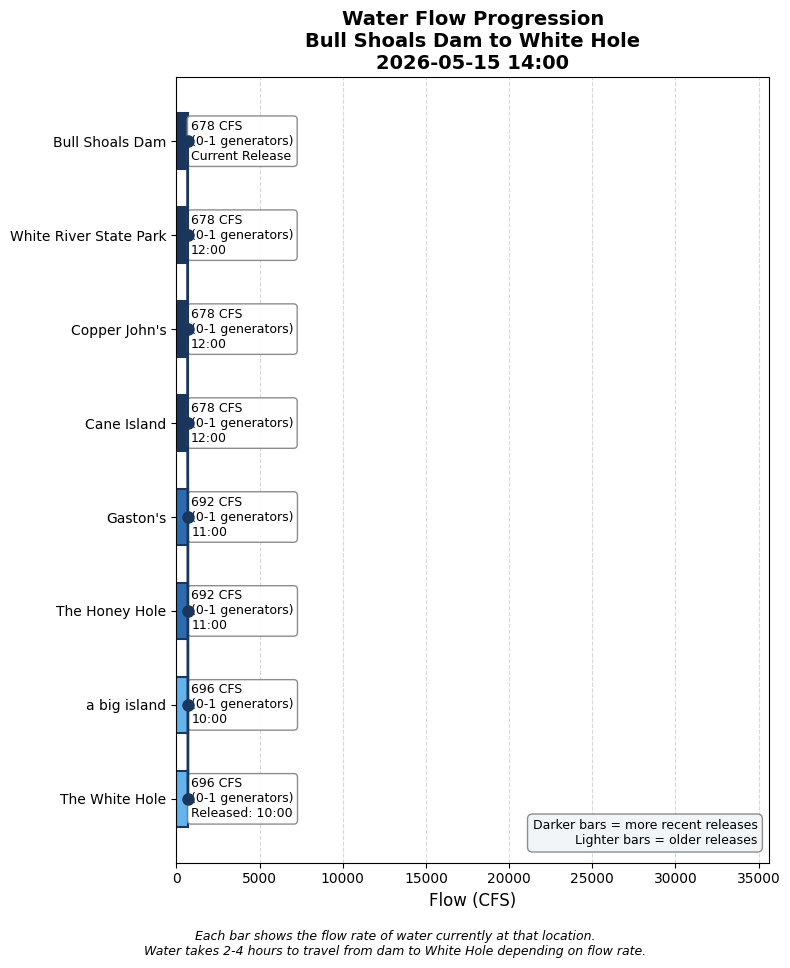
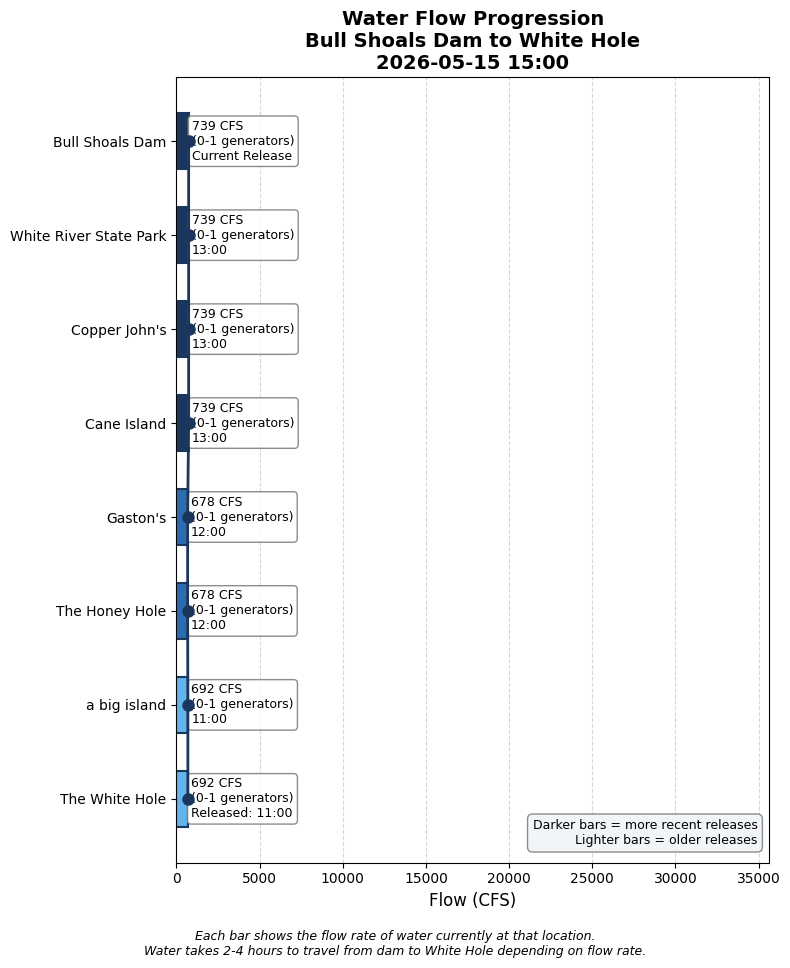
Update water conditions 2026-05-15 15:00

diff --git a/white_hole_conditions.html b/white_hole_conditions.html
@@ -3,7 +3,7 @@
 <head>
     <meta charset="UTF-8">
     <meta name="viewport" content="width=device-width, initial-scale=1.0">
-    <title>White Hole Conditions - 2026-05-15 14:00</title>
+    <title>White Hole Conditions - 2026-05-15 15:00</title>
     <style>
         body {
             font-family: -apple-system, BlinkMacSystemFont, 'Segoe UI', Roboto, sans-serif;
@@ -148,7 +148,7 @@
 </head>
 <body>
     <h1>White Hole Current Conditions</h1>
-    <p class="subtitle">Friday, May 15, 2026 at 02:00 PM</p>
+    <p class="subtitle">Friday, May 15, 2026 at 03:00 PM</p>
 
     <!-- HEADLINE BANNER -->
     <div class="headline-banner">
@@ -160,7 +160,7 @@
     <!-- CURRENT CONDITIONS -->
     <div class="current-conditions">
         <h3>Current Conditions at White Hole</h3>
-        <div class="flow-display">696 CFS</div>
+        <div class="flow-display">692 CFS</div>
         <div class="generator-display">Equivalent to 0-1 generators</div>
         <div class="condition-pills">
             <span class="pill wading">Excellent Wading</span>
@@ -189,6 +189,14 @@
                 <tr><td colspan="3" style="padding: 8px 10px; font-size: 0.8em; font-weight: bold; color: #6b46c1; text-transform: uppercase; letter-spacing: 0.05em; background-color: #f3e8ff;">Scheduled (SWPA forecast)</td></tr>
                 
                     <tr style="background-color: #faf5ff; border-left: 4px solid #e53e3e;">
+                        <td style="padding: 10px; font-weight: bold;">6 PM</td>
+                        <td style="padding: 10px;">18,818 CFS<br><small style="color: #666;">(5-6 generators: 18568 generation + 250 min flow)</small></td>
+                        <td style="padding: 10px;">~8:07 PM
+                            <span style="display: inline-block; margin-left: 6px; padding: 2px 8px; border-radius: 12px; font-size: 0.8em; background-color: #fee2e2; color: #991b1b;">No Wading</span>
+                        </td>
+                    </tr>
+                
+                    <tr style="background-color: #faf5ff; border-left: 4px solid #e53e3e;">
                         <td style="padding: 10px; font-weight: bold;">5 PM</td>
                         <td style="padding: 10px;">20,168 CFS<br><small style="color: #666;">(6-7 generators: 19918 generation + 250 min flow)</small></td>
                         <td style="padding: 10px;">~7:02 PM
@@ -212,39 +220,31 @@
                         </td>
                     </tr>
                 
-                    <tr style="background-color: #faf5ff; ">
-                        <td style="padding: 10px; font-weight: bold;">2 PM</td>
-                        <td style="padding: 10px;">925 CFS<br><small style="color: #666;">(0-1 generators: 675 generation + 250 min flow)</small></td>
-                        <td style="padding: 10px;">~5:44 PM
-                            <span style="display: inline-block; margin-left: 6px; padding: 2px 8px; border-radius: 12px; font-size: 0.8em; background-color: #d1fae5; color: #065f46;">Excellent Wading</span>
-                        </td>
-                    </tr>
-                
             
                     
                 <tr><td colspan="3" style="padding: 8px 10px; font-size: 0.8em; font-weight: bold; color: #2b6cb0; text-transform: uppercase; letter-spacing: 0.05em; background-color: #ebf8ff;">Actual (dam readings)</td></tr>
                 
                     <tr style="background-color: #ebf8ff;">
-                        <td style="padding: 10px; font-weight: bold;">12:00 PM</td>
-                        <td style="padding: 10px;">678 CFS<br><small style="color: #666;">(0-1 generators)</small></td>
-                        <td style="padding: 10px;"><span style="color: #2b6cb0;">→ Arrives ~3:44 PM (in 103 min)</span></td>
+                        <td style="padding: 10px; font-weight: bold;">1:00 PM</td>
+                        <td style="padding: 10px;">739 CFS<br><small style="color: #666;">(0-1 generators)</small></td>
+                        <td style="padding: 10px;"><span style="color: #2b6cb0;">→ Arrives ~4:44 PM (in 103 min)</span></td>
                     </tr>
                 
                     <tr style="background-color: #ebf8ff;">
-                        <td style="padding: 10px; font-weight: bold;">11:00 AM</td>
-                        <td style="padding: 10px;">692 CFS<br><small style="color: #666;">(0-1 generators)</small></td>
-                        <td style="padding: 10px;"><span style="color: #2b6cb0;">→ Arrives ~2:44 PM (in 43 min)</span></td>
+                        <td style="padding: 10px; font-weight: bold;">12:00 PM</td>
+                        <td style="padding: 10px;">678 CFS<br><small style="color: #666;">(0-1 generators)</small></td>
+                        <td style="padding: 10px;"><span style="color: #2b6cb0;">→ Arrives ~3:44 PM (in 43 min)</span></td>
                     </tr>
                 
                     <tr style="background-color: #e6fffa;">
-                        <td style="padding: 10px; font-weight: bold;">10:00 AM</td>
-                        <td style="padding: 10px;">696 CFS<br><small style="color: #666;">(0-1 generators)</small></td>
+                        <td style="padding: 10px; font-weight: bold;">11:00 AM</td>
+                        <td style="padding: 10px;">692 CFS<br><small style="color: #666;">(0-1 generators)</small></td>
                         <td style="padding: 10px;"><span style="color: #319795; font-weight: bold;">← AT WHITE HOLE NOW</span></td>
                     </tr>
                 
                     <tr style="">
-                        <td style="padding: 10px; font-weight: bold;">7:00 AM</td>
-                        <td style="padding: 10px;">723 CFS<br><small style="color: #666;">(0-1 generators)</small></td>
+                        <td style="padding: 10px; font-weight: bold;">8:00 AM</td>
+                        <td style="padding: 10px;">691 CFS<br><small style="color: #666;">(0-1 generators)</small></td>
                         <td style="padding: 10px;"><span style="color: #718096;">passed</span></td>
                     </tr>
                 
@@ -274,9 +274,9 @@
         </summary>
         <div style="padding: 15px;">
             <ul>
-                <li>Latest dam reading: 678 CFS at 2026-05-15 12:00</li>
+                <li>Latest dam reading: 739 CFS at 2026-05-15 13:00</li>
                 <li>Travel time to White Hole: 3.7 hours at current flow</li>
-                <li>White Hole conditions based on dam reading from: 2026-05-15 10:00</li>
+                <li>White Hole conditions based on dam reading from: 2026-05-15 11:00</li>
             </ul>
         </div>
     </details>
@@ -298,6 +298,13 @@
                     </thead>
                     <tbody>
                         
+                <tr style="border-bottom: 1px solid #eee;">
+                    <td style="padding: 8px;">2026-05-15 13:00</td>
+                    <td style="padding: 8px; text-align: right;">739</td>
+                    <td style="padding: 8px; text-align: right;">0.2</td>
+                    <td style="padding: 8px; text-align: right;">3.7</td>
+                </tr>
+                
                 <tr style="border-bottom: 1px solid #eee;">
                     <td style="padding: 8px;">2026-05-15 12:00</td>
                     <td style="padding: 8px; text-align: right;">678</td>
@@ -361,13 +368,6 @@
                     <td style="padding: 8px; text-align: right;">3.7</td>
                 </tr>
                 
-                <tr style="border-bottom: 1px solid #eee;">
-                    <td style="padding: 8px;">2026-05-15 03:00</td>
-                    <td style="padding: 8px; text-align: right;">759</td>
-                    <td style="padding: 8px; text-align: right;">0.2</td>
-                    <td style="padding: 8px; text-align: right;">3.7</td>
-                </tr>
-                
                     </tbody>
                 </table>
             </div>
@@ -375,7 +375,7 @@
         
 
     <div class="timestamp">
-        Data retrieved and processed on 2026-05-15 14:00:07
+        Data retrieved and processed on 2026-05-15 15:00:08
     </div>
 </body>
 </html>
